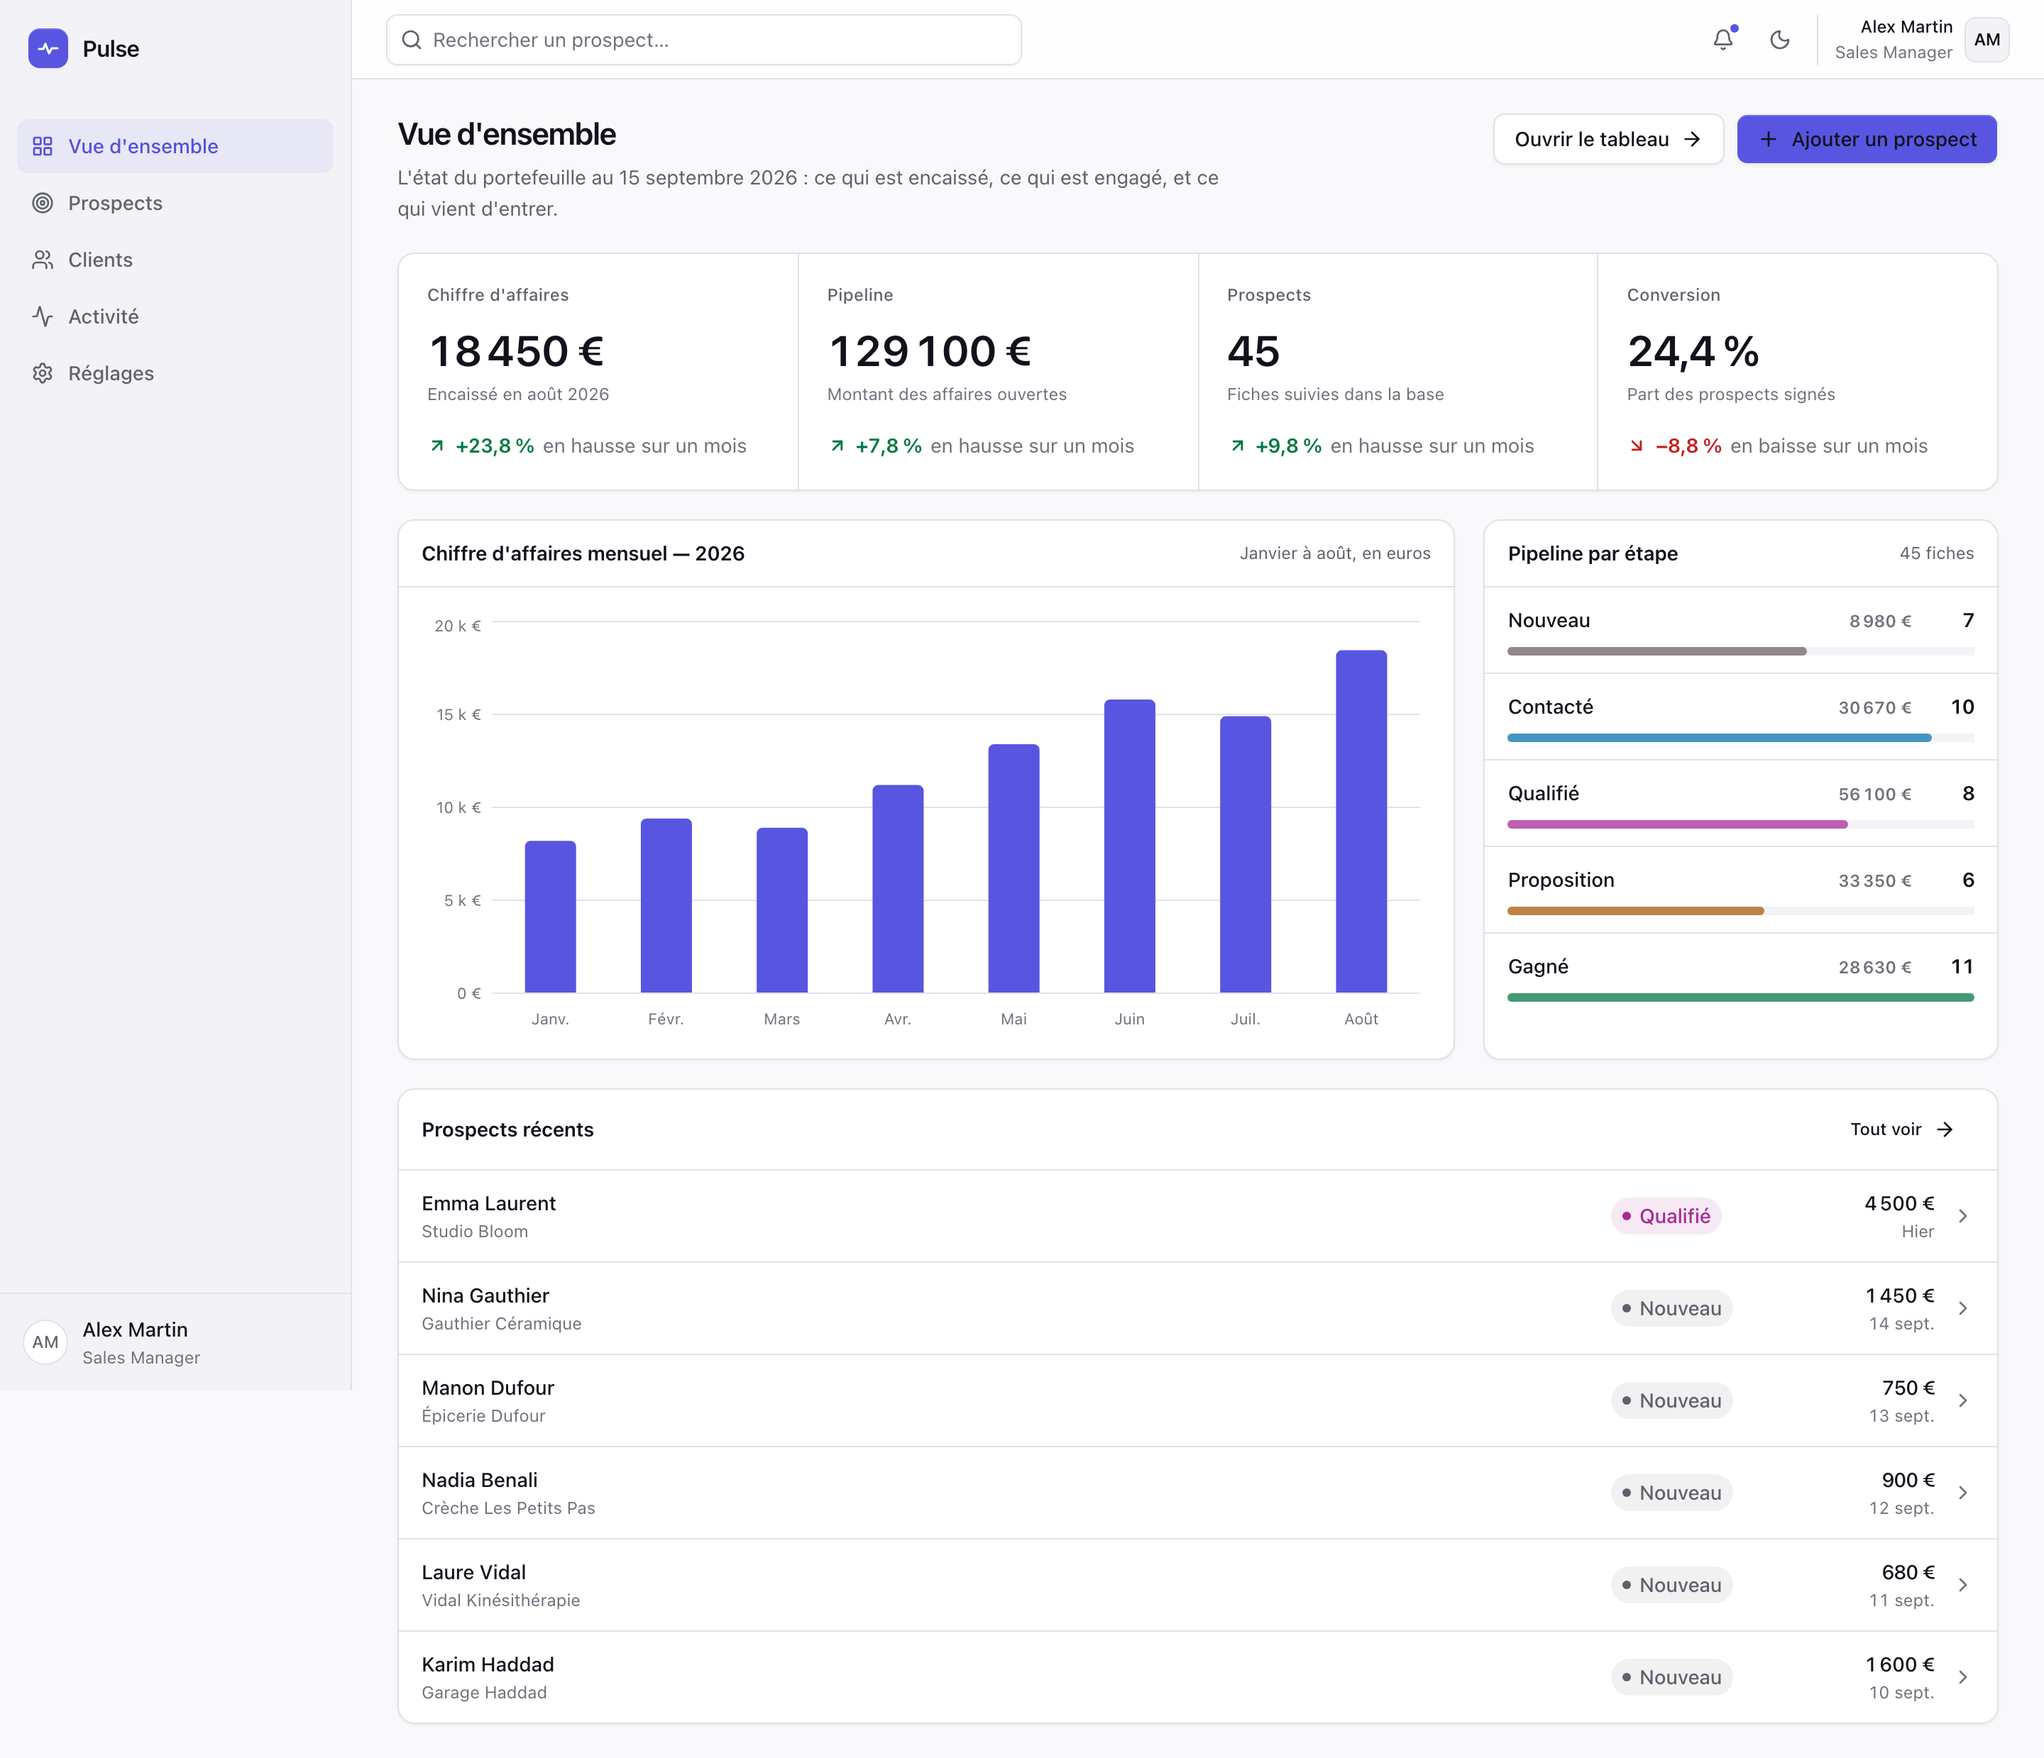
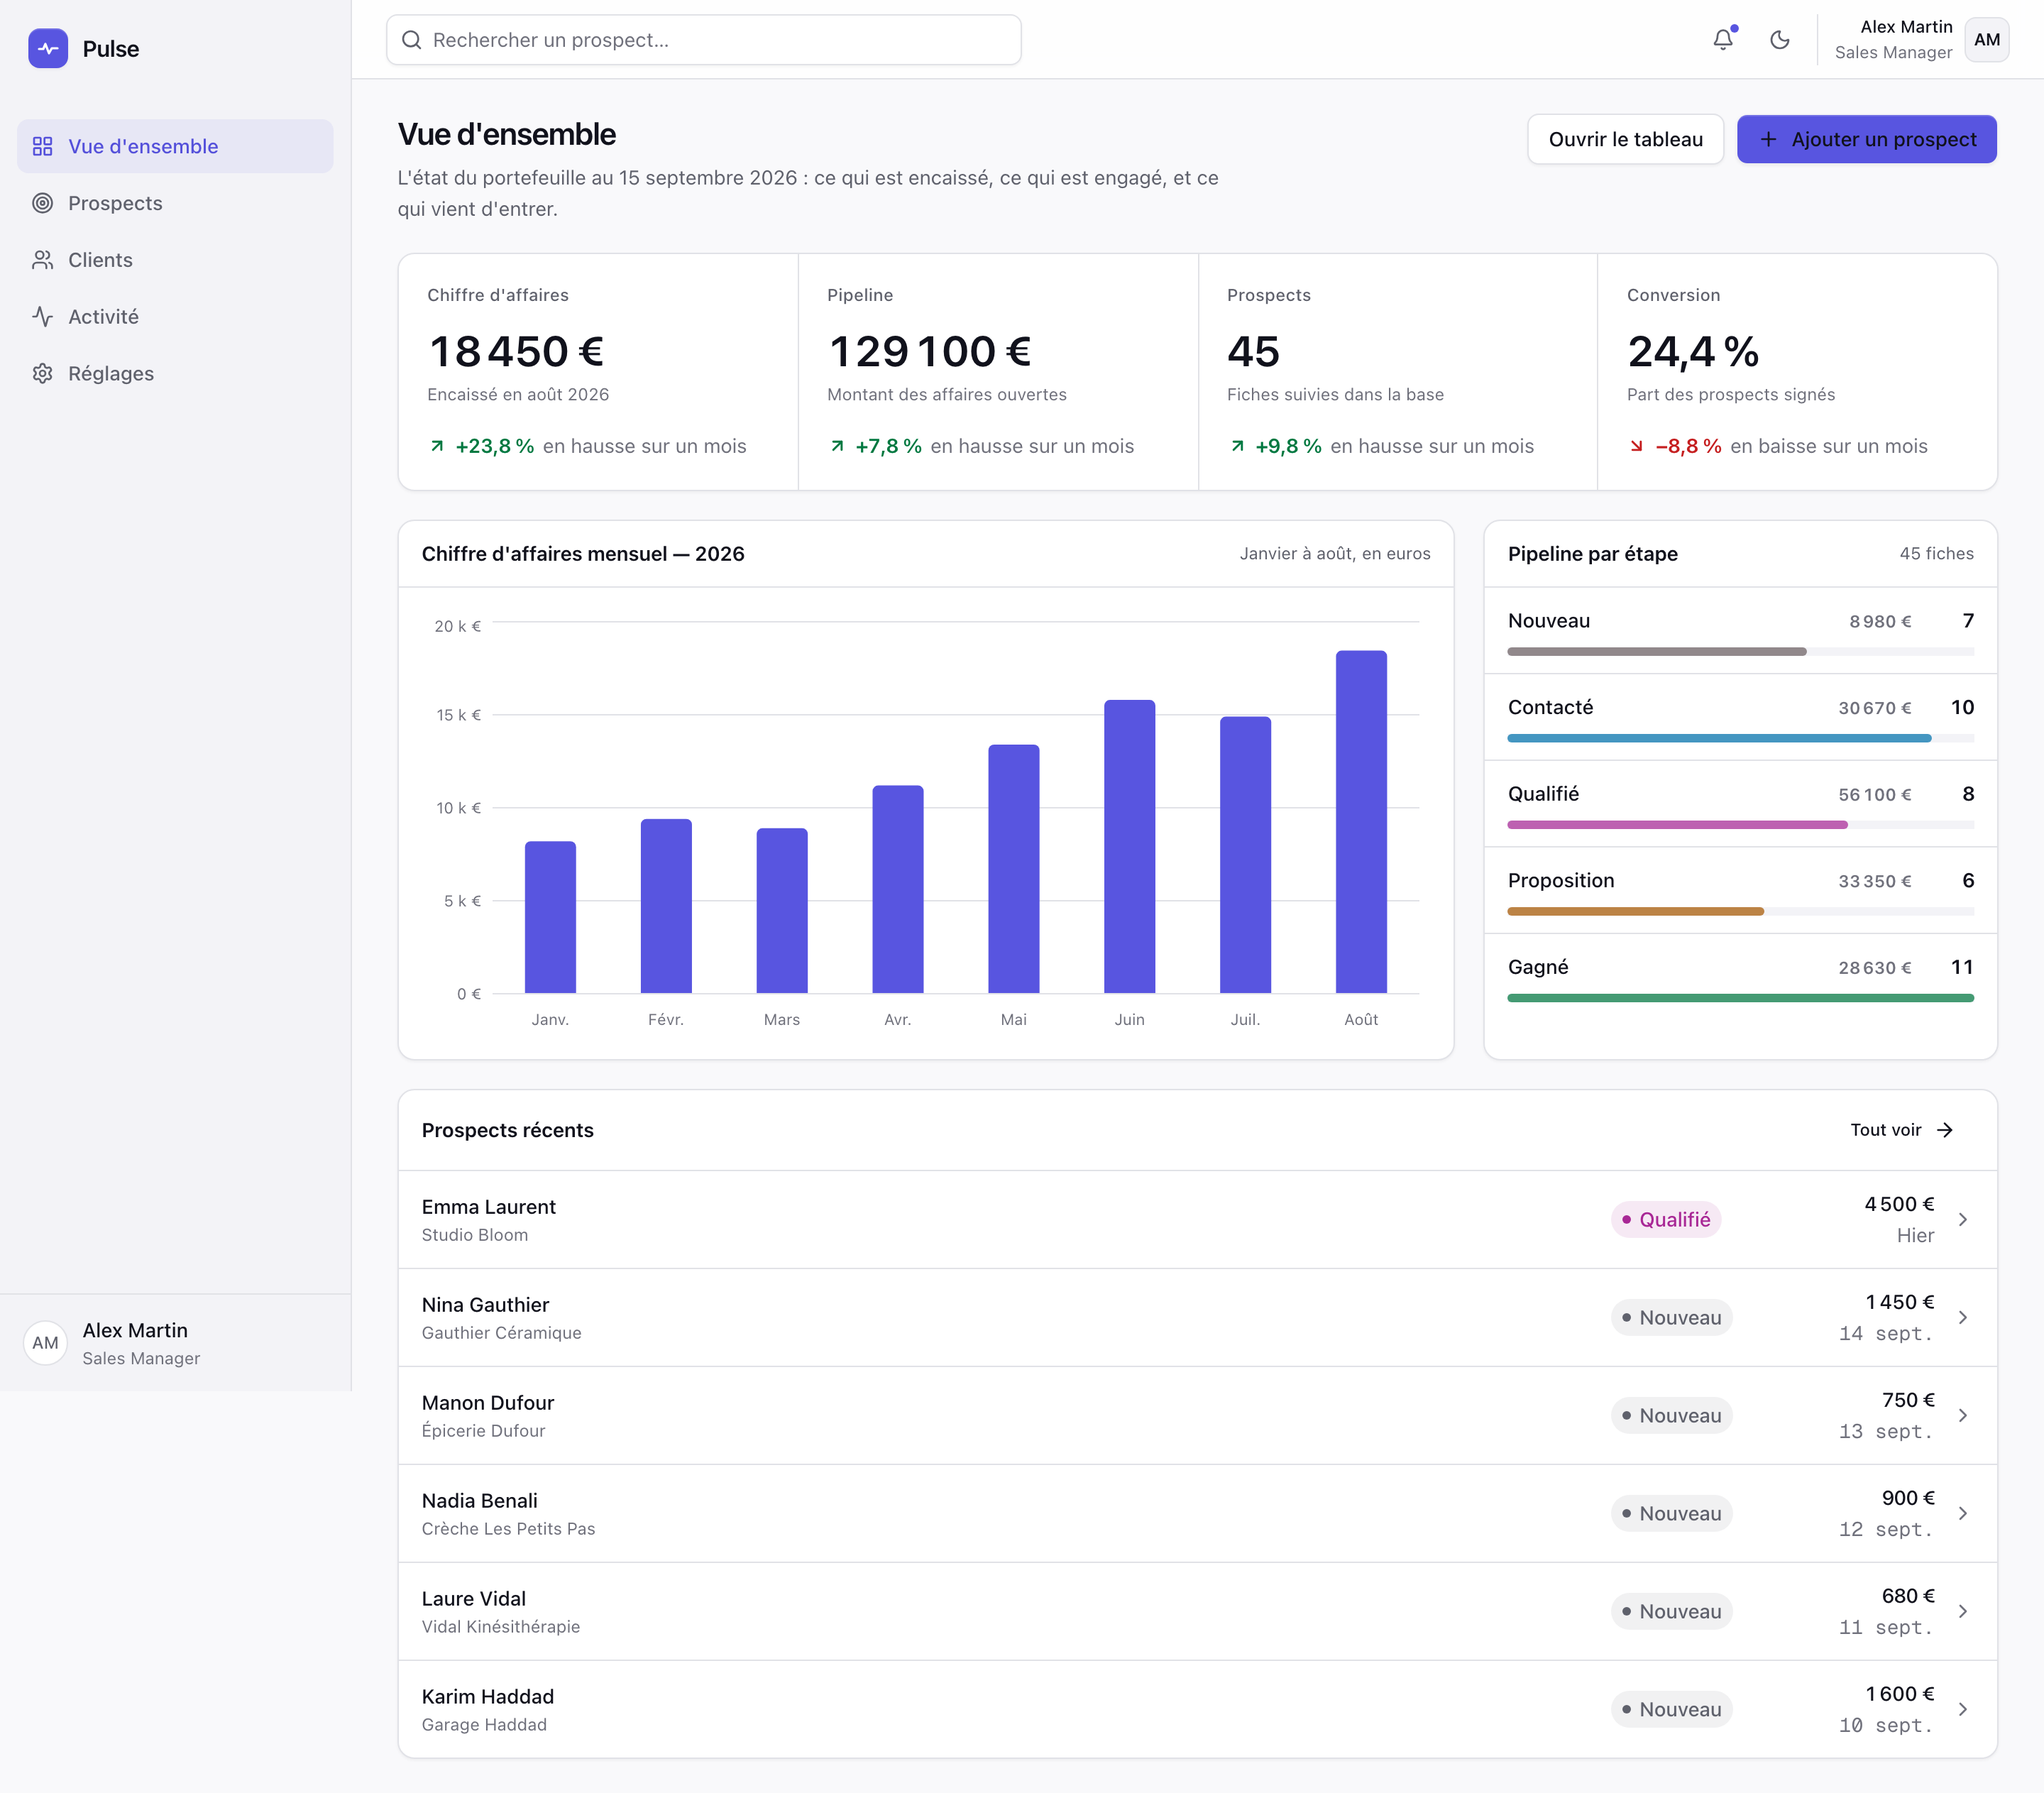
fix(ui): règle de fonte des dates, idiome de flèche, alignement mobile
- une date absolue est une mesure et se lit en Geist Mono ; « Aujourd'hui »
  et « Hier » sont des mots et restent en Geist Sans. Règle appliquée aux
  cinq surfaces de date et couverte par trois tests
- une seule flèche dans le créneau d'action de la vue d'ensemble
- les prospects récents s'alignent en haut sous 640 px, où la ligne de
  gauche compte une ligne de plus que celle de droite

diff --git a/src/components/dashboard/recent-leads.tsx b/src/components/dashboard/recent-leads.tsx
@@ -2,52 +2,64 @@ import Link from "next/link";
 import { ChevronRight } from "lucide-react";
 import type { Lead } from "@/features/leads/types";
 import { getRecentLeads } from "@/features/leads/utils/collection";
-import { formatCurrency, formatFullName, formatRelativeDay } from "@/lib/format";
+import { formatCurrency, formatFullName, formatRelativeDayParts } from "@/lib/format";
+import { cn } from "@/lib/utils";
 import { LeadStatusBadge } from "@/components/leads/lead-status-badge";
 
-/** La liste des départs du jour : les fiches entrées le plus récemment. */
+/** Les fiches entrées le plus récemment dans la base. */
 export function RecentLeads({ leads, limit = 6 }: { leads: Lead[]; limit?: number }) {
   const recent = getRecentLeads(leads, limit);
 
   return (
     <ol className="divide-y divide-border">
-      {recent.map((lead) => (
-        <li key={lead.id}>
-          <Link
-            href={`/leads/${lead.id}`}
-            className="group flex items-center gap-3 px-4 py-3 transition-colors duration-150 hover:bg-muted"
-          >
-            <span className="min-w-0 flex-1">
-              <span className="block truncate text-body font-medium text-foreground">
-                {formatFullName(lead.firstName, lead.lastName)}
+      {recent.map((lead) => {
+        const created = formatRelativeDayParts(lead.createdAt);
+
+        return (
+          <li key={lead.id}>
+            <Link
+              href={`/leads/${lead.id}`}
+              className="group flex items-start gap-3 px-4 py-3 transition-colors duration-200 ease-out-soft hover:bg-sunk sm:items-center"
+            >
+              <span className="min-w-0 flex-1">
+                <span className="block truncate text-body font-medium text-foreground">
+                  {formatFullName(lead.firstName, lead.lastName)}
+                </span>
+                <span className="block truncate text-label text-subtle">{lead.company}</span>
+                {/* Sous 640 px la ligne se replie, mais l'étape reste écrite. */}
+                <span className="mt-1.5 block sm:hidden">
+                  <LeadStatusBadge status={lead.status} />
+                </span>
               </span>
-              <span className="block truncate text-label text-subtle">{lead.company}</span>
-              {/* Sous 640 px la ligne se replie, mais l'étape reste écrite. */}
-              <span className="mt-1.5 block sm:hidden">
+
+              <span className="hidden w-[7.5rem] shrink-0 sm:block">
                 <LeadStatusBadge status={lead.status} />
               </span>
-            </span>
 
-            <span className="hidden w-[7.5rem] shrink-0 sm:block">
-              <LeadStatusBadge status={lead.status} />
-            </span>
-
-            <span className="w-24 shrink-0 text-right">
-              <span data-slot="figure" className="ui-figure block text-body font-medium text-foreground">
-                {formatCurrency(lead.estimatedValue)}
+              <span className="w-24 shrink-0 text-right">
+                <span
+                  data-slot="figure"
+                  className="ui-figure block text-body font-medium text-foreground"
+                >
+                  {formatCurrency(lead.estimatedValue)}
+                </span>
+                {/* Une date absolue est une mesure ; « Hier » est un mot. */}
+                <time
+                  dateTime={lead.createdAt}
+                  className={cn("block text-label text-subtle", !created.relative && "font-mono")}
+                >
+                  {created.label}
+                </time>
               </span>
-              <time dateTime={lead.createdAt} className="block text-label text-subtle">
-                {formatRelativeDay(lead.createdAt)}
-              </time>
-            </span>
 
-            <ChevronRight
-              className="size-4 shrink-0 text-subtle transition-transform duration-200 ease-out-soft group-hover:translate-x-0.5"
-              aria-hidden
-            />
-          </Link>
-        </li>
-      ))}
+              <ChevronRight
+                className="mt-0.5 size-4 shrink-0 text-subtle transition-transform duration-200 ease-out-soft group-hover:translate-x-0.5 sm:mt-0"
+                aria-hidden
+              />
+            </Link>
+          </li>
+        );
+      })}
     </ol>
   );
 }

diff --git a/src/lib/format.ts b/src/lib/format.ts
@@ -75,13 +75,23 @@ export function formatDateTime(iso: string): string {
  * « Aujourd'hui », « Hier », sinon la date courte. La comparaison se fait dans
  * le fuseau d'affichage, avec la référence passée en argument pour rester
  * testable.
+ *
+ * `relative` dit si la valeur rendue est un mot ou une date : seules les dates
+ * absolues sont des mesures et prennent la fonte à chasse fixe.
  */
-export function formatRelativeDay(iso: string, now: Date = new Date()): string {
+export function formatRelativeDayParts(
+  iso: string,
+  now: Date = new Date(),
+): { label: string; relative: boolean } {
   const date = parseISO(iso);
   const options = { in: tz(DISPLAY_TIMEZONE) };
-  if (isSameDay(date, now, options)) return "Aujourd'hui";
-  if (isSameDay(date, subDays(now, 1, options), options)) return "Hier";
-  return formatShortDate(iso);
+  if (isSameDay(date, now, options)) return { label: "Aujourd'hui", relative: true };
+  if (isSameDay(date, subDays(now, 1, options), options)) return { label: "Hier", relative: true };
+  return { label: formatShortDate(iso), relative: false };
+}
+
+export function formatRelativeDay(iso: string, now: Date = new Date()): string {
+  return formatRelativeDayParts(iso, now).label;
 }
 
 export function formatInitials(firstName: string, lastName: string): string {

diff --git a/src/features/leads/utils/__tests__/collection.test.ts b/src/features/leads/utils/__tests__/collection.test.ts
@@ -1,5 +1,6 @@
 import { describe, expect, it } from "vitest";
 import { EMPTY_FILTERS } from "../../types";
+import { formatRelativeDayParts } from "@/lib/format";
 import {
   filterLeads,
   getRecentLeads,
@@ -149,5 +150,29 @@ describe("sortLeads", () => {
 describe("getRecentLeads", () => {
   it("rend les plus récents d'abord, dans la limite demandée", () => {
     expect(getRecentLeads(LEADS, 2)).toEqual([EMMA, THOMAS]);
+  });
+});
+
+describe("formatRelativeDayParts", () => {
+  const NOW = new Date("2026-09-16T10:00:00.000Z");
+
+  it("rend un mot pour aujourd'hui et le signale comme relatif", () => {
+    expect(formatRelativeDayParts("2026-09-16T08:00:00.000Z", NOW)).toEqual({
+      label: "Aujourd'hui",
+      relative: true,
+    });
+  });
+
+  it("rend un mot pour hier", () => {
+    expect(formatRelativeDayParts("2026-09-15T08:00:00.000Z", NOW)).toEqual({
+      label: "Hier",
+      relative: true,
+    });
+  });
+
+  it("rend une date absolue au-delà, et la signale comme mesure", () => {
+    const parts = formatRelativeDayParts("2026-09-10T08:00:00.000Z", NOW);
+    expect(parts.relative).toBe(false);
+    expect(parts.label).toMatch(/^10 sept/);
   });
 });

diff --git a/src/components/leads/leads-table.tsx b/src/components/leads/leads-table.tsx
@@ -176,7 +176,10 @@ export function LeadsTable({
           <SortButton label="Créé le" field="createdAt" sort={sort} onSortChange={onSortChange} />
         ),
         cell: ({ row }) => (
-          <time dateTime={row.original.createdAt} className="whitespace-nowrap text-muted-foreground">
+          <time
+            dateTime={row.original.createdAt}
+            className="whitespace-nowrap font-mono text-label text-muted-foreground"
+          >
             {formatShortDate(row.original.createdAt)}
           </time>
         ),

diff --git a/src/app/dashboard/page.tsx b/src/app/dashboard/page.tsx
@@ -27,10 +27,7 @@ export default async function DashboardPage() {
           description="L'état du portefeuille au 15 septembre 2026 : ce qui est encaissé, ce qui est engagé, et ce qui vient d'entrer."
         >
           <Button asChild variant="secondary">
-            <Link href="/leads">
-              Ouvrir le tableau
-              <ArrowRight className="size-4" aria-hidden />
-            </Link>
+            <Link href="/leads">Ouvrir le tableau</Link>
           </Button>
           <AddLeadDialog />
         </PageHeader>
